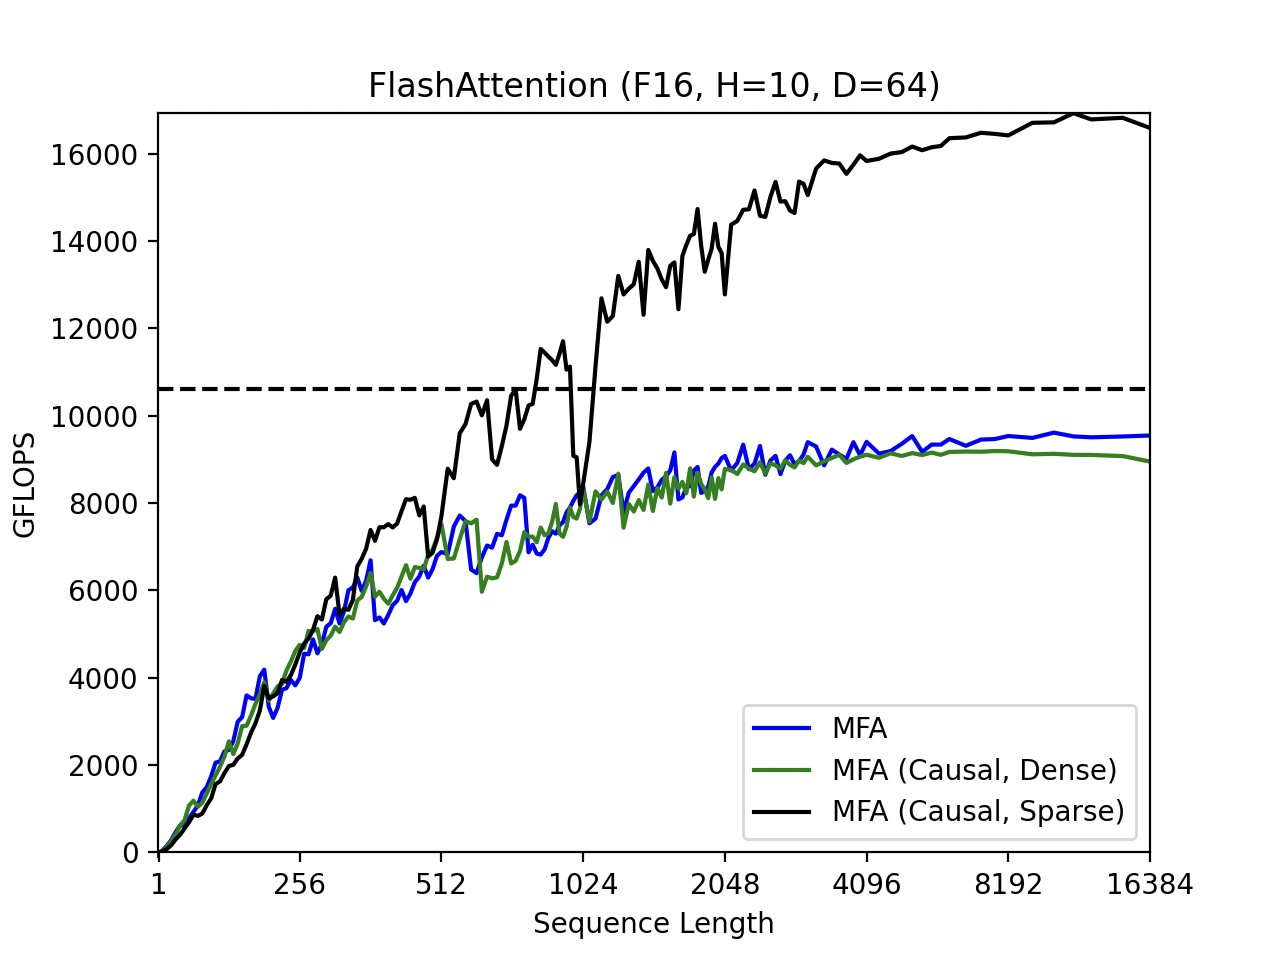
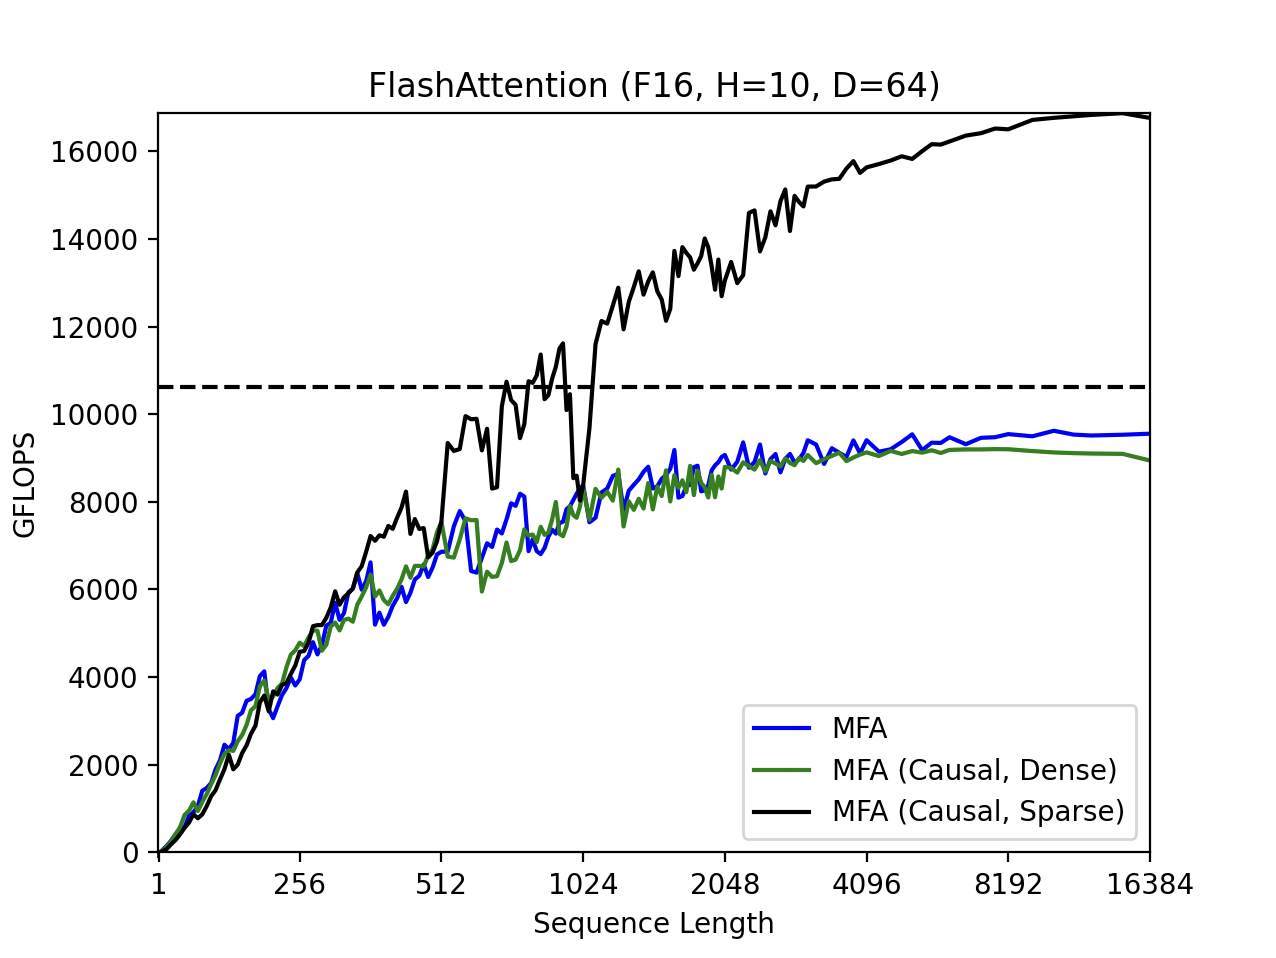
Revert TFA

diff --git a/Tests/Test Cases/AttentionTest.swift b/Tests/Test Cases/AttentionTest.swift
@@ -57,7 +57,7 @@ func showAttentionTest() {
   let expectedBackend: TensorBackend = .mps
   let actualBackend: TensorBackend = .mfa
   #if arch(arm64)
-  typealias Real = Float16
+  typealias Real = Float32 // Float16
   #else
   typealias Real = Float32
   #endif
@@ -71,13 +71,20 @@ func showAttentionTest() {
 //  C_simd = 64
 //  R_splits = 4
   
-  let B = 8
-  let R = 1
-  let C = 1
+//  let B = 8
+//  let R = 1
+//  let C = 1
+//  let H = 1
+//  let D = 1
+  let B = 1
+  let R = 8
+  let C = 8
   let H = 1
-  let D = 1
+  let D = 8
+//  let expected_mask = Tensor<Real>(
+//    shape: [1, 1, R, C], mask: .blockSparse(2, 0.2), backend: expectedBackend)
   let expected_mask = Tensor<Real>(
-    shape: [1, 1, R, C], mask: .blockSparse(2, 0.2), backend: expectedBackend)
+    shape: [1, 1, R, C], mask: .upperTriangular, backend: expectedBackend)
   let expected_Q = Tensor<Real>(
     shape: [B, R, H, D], randomUniform: 0..<1, backend: expectedBackend)
   let expected_K = Tensor<Real>(
@@ -112,7 +119,7 @@ func showAttentionTest() {
       actual_O.attention(
         queries: actual_Q, keys: actual_K, values: actual_V,
         mask: actual_mask,
-        transposeK: true, transposeO: true)
+        transposeK: true, transposeO: true, blockSparse: true)
     }
   }
   

diff --git a/Tests/Test Cases/AttentionPerfTests.swift b/Tests/Test Cases/AttentionPerfTests.swift
@@ -289,13 +289,13 @@ class AttentionPerfTests: MFATestCase {
         SIMD8( 512,  768,    16, 16, 0, 0, 0, 0),
         SIMD8( 768, 1024,     8, 16, 0, 0, 0, 0),
         SIMD8(1024, 1536,     4, 32, 0, 0, 0, 0),
-//        SIMD8(1536, 2048,     2, 32, 8, 0, 0, 0),
-//        SIMD8(2048, 3072,     2, 64, 8, 0, 0, 0),
-//        SIMD8(3072, 4096,     2, 128, 8, 0, 0, 0),
-//        SIMD8(4096, 6144,     2, 256, 8, 0, 0, 0),
-//        SIMD8( 6 * 1024,  8 * 1024, 2, 512, 7, 0, 0, 0),
-//        SIMD8( 8 * 1024, 12 * 1024, 2, 1024, 6, 0, 0, 0),
-//        SIMD8(12 * 1024, 16 * 1024 + 1, 2, 2048, 5, 0, 0, 0),
+        SIMD8(1536, 2048,     2, 32, 8, 0, 0, 0),
+        SIMD8(2048, 3072,     2, 64, 8, 0, 0, 0),
+        SIMD8(3072, 4096,     2, 128, 8, 0, 0, 0),
+        SIMD8(4096, 6144,     2, 256, 8, 0, 0, 0),
+        SIMD8( 6 * 1024,  8 * 1024, 2, 512, 7, 0, 0, 0),
+        SIMD8( 8 * 1024, 12 * 1024, 2, 1024, 6, 0, 0, 0),
+        SIMD8(12 * 1024, 16 * 1024 + 1, 2, 2048, 5, 0, 0, 0),
         
 //        SIMD4(granularity, 192, 256, granularity, 0, 0, 0, 0),
 //        SIMD4( 192,  256, 128, granularity, 0, 0, 0, 0),

diff --git a/Tests/Operations/Attention.swift b/Tests/Operations/Attention.swift
@@ -85,6 +85,7 @@ struct MFA_Attention: Attention, MFA_Operation {
     constants.setConstantValue(&pcopy.blockSparse, type: .bool, index: 102)
     
     var triangular = false
+    #if false
     if parameters.masked && parameters.blockSparse {
       // If masked and R ≈ C, is it very likely this is causal self-attention.
       let ratio = Float(parameters.R) / Float(parameters.C)
@@ -96,6 +97,7 @@ struct MFA_Attention: Attention, MFA_Operation {
         triangular = true
       }
     }
+    #endif
     constants.setConstantValue(&triangular, type: .bool, index: 103)
     
     var forward = true

diff --git a/Tests/Test Cases/MFATestCase.swift b/Tests/Test Cases/MFATestCase.swift
@@ -33,7 +33,7 @@ class MFATestCase {
   static func runTests(speed: TestSpeed) {
     let testCases: [MFATestCase] = [
       CorrectnessTests(),
-//      AttentionPerfTests(),
+      AttentionPerfTests(),
 //      GEMMPerfTests(),
     ]
     

diff --git a/Tests/main.swift b/Tests/main.swift
@@ -13,4 +13,6 @@ import PythonKit
 _ = MetalContext.global
 _ = PythonContext.global
 
+//showAttentionTest()
+
 MFATestCase.runTests(speed: .veryLong)

diff --git a/README.md b/README.md
@@ -3,7 +3,7 @@
 A faster alternative to Metal Performance Shaders, a reference implementation of modern GPU algorithms, and a step toward defragmenting the AI ecosystem.
 
 Algorithms:
-- [ ] Attention
+- [x] Attention
   - [x] Dense (90.5% ALU)
   - [x] Block-Sparse
   - [ ] Triangular
@@ -189,6 +189,10 @@ Dense: Stable Diffusion 2 outermost attention layer @ 512x512 (sequence length =
 
 ![FlashAttention (F16, H=5, D=64)](./CI/float16-large-sequences-latest.png)
 
+### Float32 Sequence Scaling (Causal Mask)
+
+![FlashAttention (F32, H=10, D=64)](./CI/float16-large-causal-latest.png)
+
 ### Float16 Sequence Scaling (Causal Mask)
 
 ![FlashAttention (F16, H=10, D=64)](./CI/float16-small-causal-latest.png)
@@ -210,8 +214,4 @@ Releases:
   - Fused transposes for A and B
   - Batched GEMM
 - v1.0.0
-  - Attention: dense, block-sparse, and triangular
-- v1.1.0
-  - Fused activations
-  - Alpha and beta constants from BLAS
-  - Grouped-query attention
+  - Attention: dense and block-sparse
